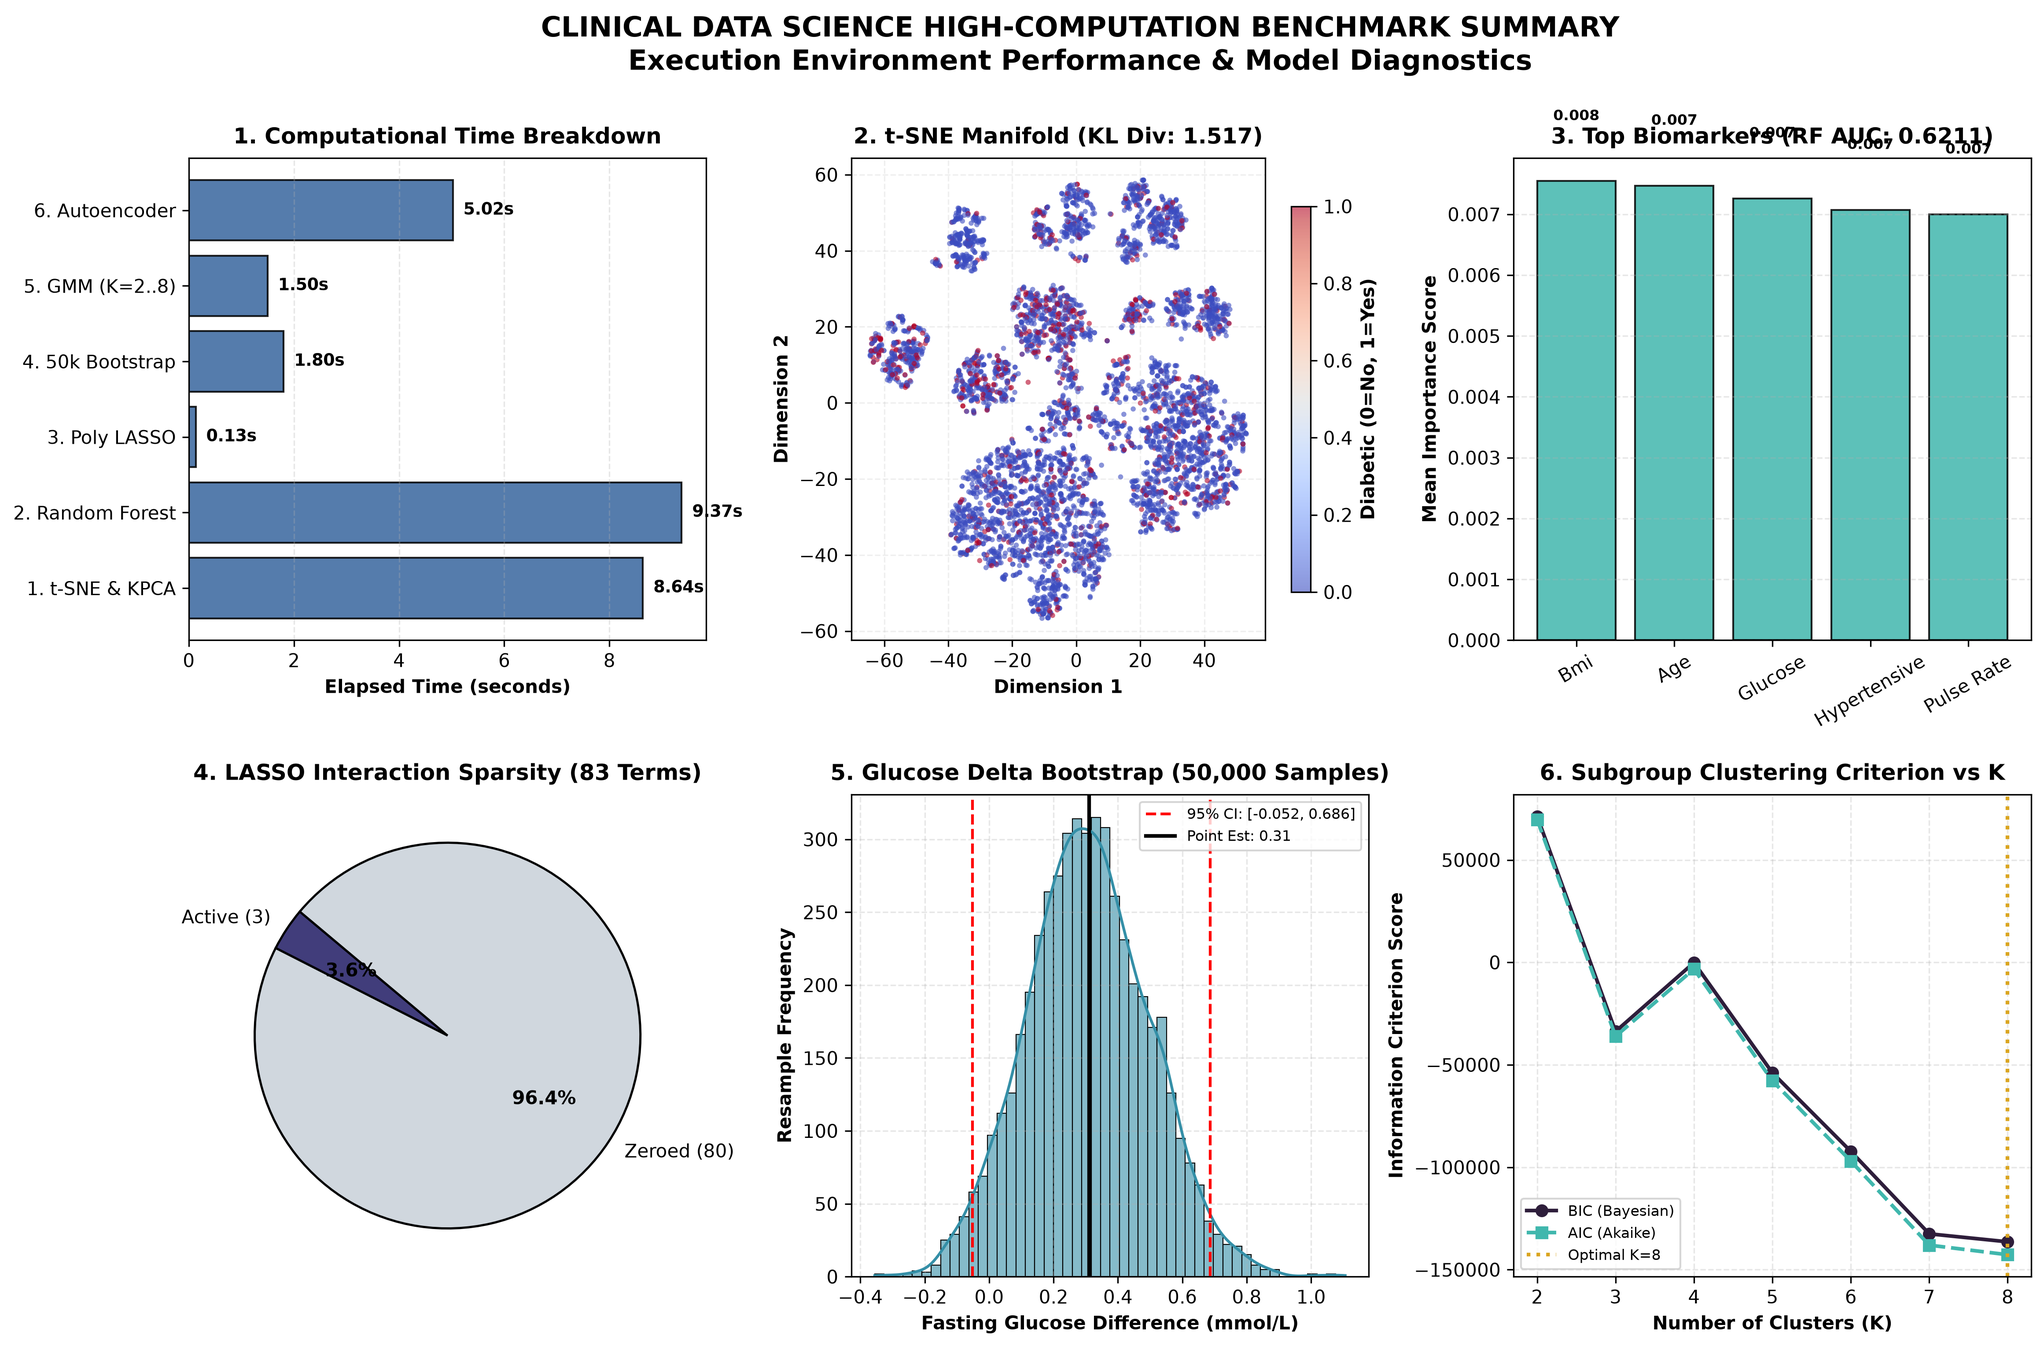
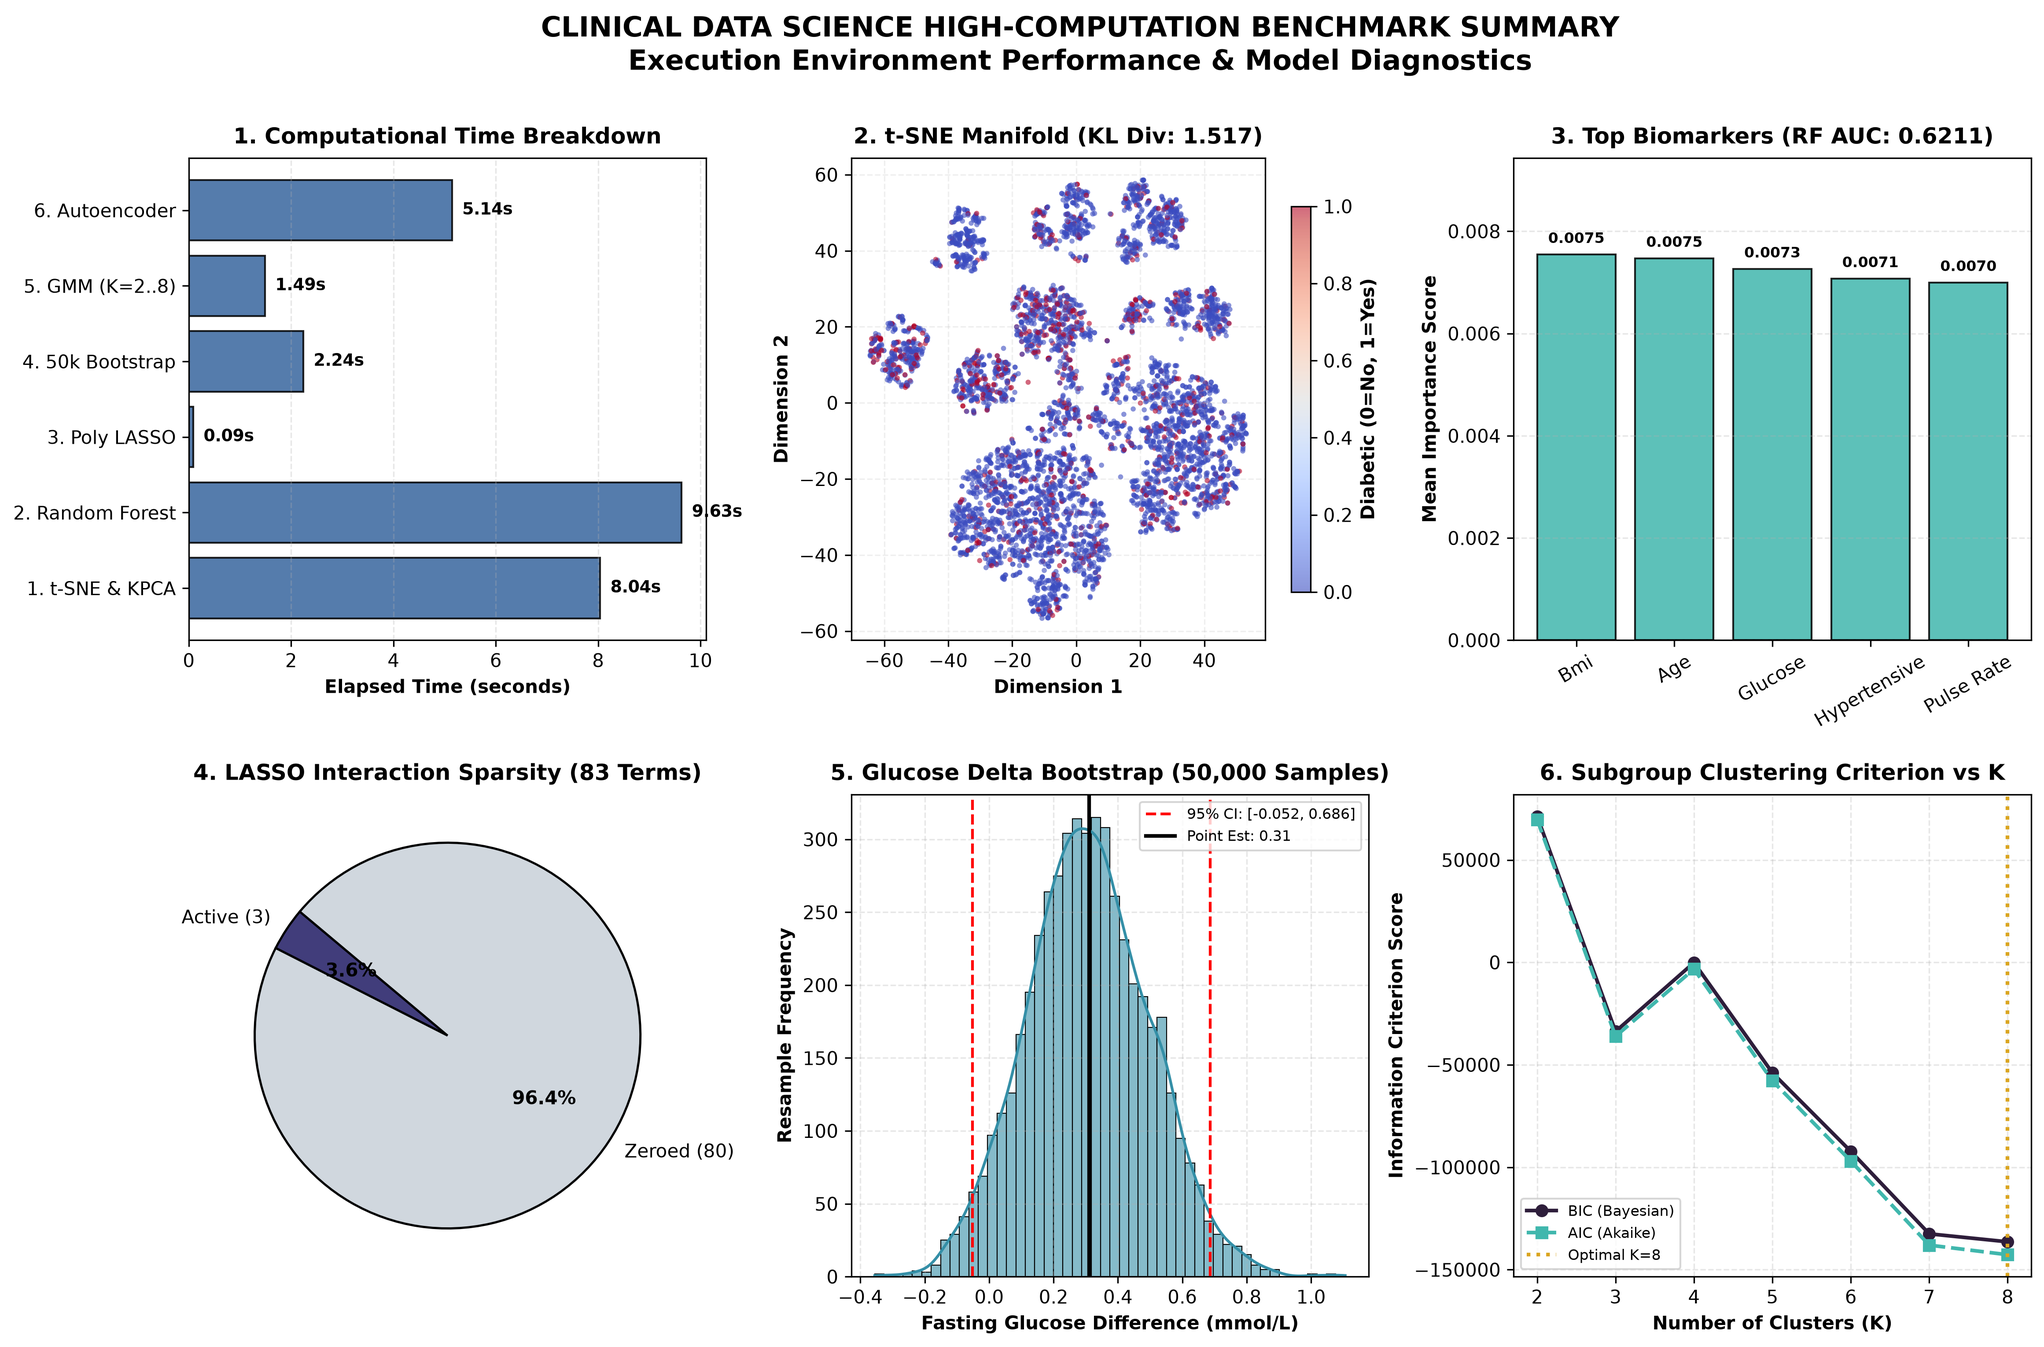
test data analysis

diff --git a/build/main.py b/build/main.py
@@ -121,27 +121,73 @@ def get_environment_info():
 
 
 def prepare_clinical_data():
-    """Load and preprocess patient dataset for high-compute modeling."""
+    """Load and preprocess patient dataset for high-compute modeling.
+    Robustly handles both Root object wrappers, nested JSON dictionaries, and flattened CSV keys.
+    """
     print("Loading patient cohort dataset...")
     dataset = create_dataset()
-    df = pd.DataFrame(dataset.records)
+
+    rows = []
+    for r in dataset:
+        try:
+            row = {
+                "gender": str(r.demographics.gender) if r.demographics.gender is not None else "Unknown",
+                "age": float(r.demographics.age) if r.demographics.age is not None else 0.0,
+                "height": float(r.anthropometry.height) if r.anthropometry.height is not None else 0.0,
+                "weight": float(r.anthropometry.weight) if r.anthropometry.weight is not None else 0.0,
+                "bmi": float(r.anthropometry.bmi) if r.anthropometry.bmi is not None else 0.0,
+                "systolic_bp": float(r.vitals.systolic_bp) if r.vitals.systolic_bp is not None else 0.0,
+                "diastolic_bp": float(r.vitals.diastolic_bp) if r.vitals.diastolic_bp is not None else 0.0,
+                "pulse_rate": float(r.vitals.pulse_rate) if r.vitals.pulse_rate is not None else 0.0,
+                "glucose": float(r.labs.glucose) if r.labs.glucose is not None else 0.0,
+                "hypertensive": str(r.history.hypertensive) if r.history.hypertensive is not None else "0",
+                "family_diabetes": str(r.history.family_diabetes) if r.history.family_diabetes is not None else "0",
+                "cardiovascular_disease": str(r.history.cardiovascular_disease) if r.history.cardiovascular_disease is not None else "0",
+                "family_hypertension": str(r.history.family_hypertension) if r.history.family_hypertension is not None else "0",
+                "stroke": str(r.history.stroke) if r.history.stroke is not None else "0",
+                "diabetic": str(r.outcome.diabetic) if r.outcome.diabetic is not None else "No",
+            }
+        except Exception:
+            d = r if isinstance(r, dict) else getattr(r, "_data", {})
+            row = {
+                "gender": str(d.get("demographics.gender") or (d.get("demographics") or {}).get("gender", "Unknown")),
+                "age": float(d.get("demographics.age") or (d.get("demographics") or {}).get("age", 0.0) or 0.0),
+                "height": float(d.get("anthropometry.height") or (d.get("anthropometry") or {}).get("height", 0.0) or 0.0),
+                "weight": float(d.get("anthropometry.weight") or (d.get("anthropometry") or {}).get("weight", 0.0) or 0.0),
+                "bmi": float(d.get("anthropometry.bmi") or (d.get("anthropometry") or {}).get("bmi", 0.0) or 0.0),
+                "systolic_bp": float(d.get("vitals.systolic_bp") or (d.get("vitals") or {}).get("systolic_bp", 0.0) or 0.0),
+                "diastolic_bp": float(d.get("vitals.diastolic_bp") or (d.get("vitals") or {}).get("diastolic_bp", 0.0) or 0.0),
+                "pulse_rate": float(d.get("vitals.pulse_rate") or (d.get("vitals") or {}).get("pulse_rate", 0.0) or 0.0),
+                "glucose": float(d.get("labs.glucose") or (d.get("labs") or {}).get("glucose", 0.0) or 0.0),
+                "hypertensive": str(d.get("history.hypertensive") or (d.get("history") or {}).get("hypertensive", "0")),
+                "family_diabetes": str(d.get("history.family_diabetes") or (d.get("history") or {}).get("family_diabetes", "0")),
+                "cardiovascular_disease": str(d.get("history.cardiovascular_disease") or (d.get("history") or {}).get("cardiovascular_disease", "0")),
+                "family_hypertension": str(d.get("history.family_hypertension") or (d.get("history") or {}).get("family_hypertension", "0")),
+                "stroke": str(d.get("history.stroke") or (d.get("history") or {}).get("stroke", "0")),
+                "diabetic": str(d.get("outcome.diabetic") or (d.get("outcome") or {}).get("diabetic", "No")),
+            }
+        rows.append(row)
+
+    df = pd.DataFrame(rows)
 
     numeric_cols = [
-        'demographics.age', 'anthropometry.height', 'anthropometry.weight',
-        'anthropometry.bmi', 'labs.glucose', 'vitals.systolic_bp',
-        'vitals.diastolic_bp', 'vitals.pulse_rate'
+        'age', 'height', 'weight', 'bmi', 'glucose',
+        'systolic_bp', 'diastolic_bp', 'pulse_rate'
     ]
     binary_cols = [
-        'history.hypertensive', 'history.family_diabetes',
-        'history.cardiovascular_disease', 'history.family_hypertension', 'history.stroke'
+        'hypertensive', 'family_diabetes',
+        'cardiovascular_disease', 'family_hypertension', 'stroke'
     ]
 
-    for col in numeric_cols + binary_cols:
-        df[col] = pd.to_numeric(df[col], errors='coerce').fillna(0)
+    for col in numeric_cols:
+        df[col] = pd.to_numeric(df[col], errors='coerce').fillna(0.0)
+
+    for col in binary_cols:
+        df[col] = pd.to_numeric(df[col], errors='coerce').fillna(0).astype(int)
 
     # Encode categorical features
-    df['gender_male'] = (df['demographics.gender'].astype(str).str.lower() == 'male').astype(int)
-    df['is_diabetic'] = (df['outcome.diabetic'].astype(str).str.lower() == 'yes').astype(int)
+    df['gender_male'] = (df['gender'].astype(str).str.lower() == 'male').astype(int)
+    df['is_diabetic'] = (df['diabetic'].astype(str).str.lower().isin(['yes', '1', 'true'])).astype(int)
 
     feature_cols = numeric_cols + binary_cols + ['gender_male']
     X = df[feature_cols].values
@@ -242,7 +288,7 @@ def benchmark_polynomial_lasso(X_scaled, df, numeric_cols):
     n_expanded_features = X_poly.shape[1]
 
     # Target: Fasting glucose
-    y_target = df['labs.glucose'].values
+    y_target = df['glucose'].values
 
     # Run 5-fold cross-validated LASSO across 100 alpha penalties
     lasso_cv = LassoCV(cv=5, max_iter=2500, random_state=42, n_jobs=2)
@@ -275,8 +321,8 @@ def benchmark_massive_bootstrap(df, y):
     n_batches = n_resamples // batch_size
 
     diab_mask = (y == 1)
-    g_diab = df.loc[diab_mask, 'labs.glucose'].values
-    g_nondiab = df.loc[~diab_mask, 'labs.glucose'].values
+    g_diab = df.loc[diab_mask, 'glucose'].values
+    g_nondiab = df.loc[~diab_mask, 'glucose'].values
     n_d = len(g_diab)
     n_nd = len(g_nondiab)
 

diff --git a/main.py b/main.py
@@ -121,27 +121,73 @@ def get_environment_info():
 
 
 def prepare_clinical_data():
-    """Load and preprocess patient dataset for high-compute modeling."""
+    """Load and preprocess patient dataset for high-compute modeling.
+    Robustly handles both Root object wrappers, nested JSON dictionaries, and flattened CSV keys.
+    """
     print("Loading patient cohort dataset...")
     dataset = create_dataset()
-    df = pd.DataFrame(dataset.records)
+
+    rows = []
+    for r in dataset:
+        try:
+            row = {
+                "gender": str(r.demographics.gender) if r.demographics.gender is not None else "Unknown",
+                "age": float(r.demographics.age) if r.demographics.age is not None else 0.0,
+                "height": float(r.anthropometry.height) if r.anthropometry.height is not None else 0.0,
+                "weight": float(r.anthropometry.weight) if r.anthropometry.weight is not None else 0.0,
+                "bmi": float(r.anthropometry.bmi) if r.anthropometry.bmi is not None else 0.0,
+                "systolic_bp": float(r.vitals.systolic_bp) if r.vitals.systolic_bp is not None else 0.0,
+                "diastolic_bp": float(r.vitals.diastolic_bp) if r.vitals.diastolic_bp is not None else 0.0,
+                "pulse_rate": float(r.vitals.pulse_rate) if r.vitals.pulse_rate is not None else 0.0,
+                "glucose": float(r.labs.glucose) if r.labs.glucose is not None else 0.0,
+                "hypertensive": str(r.history.hypertensive) if r.history.hypertensive is not None else "0",
+                "family_diabetes": str(r.history.family_diabetes) if r.history.family_diabetes is not None else "0",
+                "cardiovascular_disease": str(r.history.cardiovascular_disease) if r.history.cardiovascular_disease is not None else "0",
+                "family_hypertension": str(r.history.family_hypertension) if r.history.family_hypertension is not None else "0",
+                "stroke": str(r.history.stroke) if r.history.stroke is not None else "0",
+                "diabetic": str(r.outcome.diabetic) if r.outcome.diabetic is not None else "No",
+            }
+        except Exception:
+            d = r if isinstance(r, dict) else getattr(r, "_data", {})
+            row = {
+                "gender": str(d.get("demographics.gender") or (d.get("demographics") or {}).get("gender", "Unknown")),
+                "age": float(d.get("demographics.age") or (d.get("demographics") or {}).get("age", 0.0) or 0.0),
+                "height": float(d.get("anthropometry.height") or (d.get("anthropometry") or {}).get("height", 0.0) or 0.0),
+                "weight": float(d.get("anthropometry.weight") or (d.get("anthropometry") or {}).get("weight", 0.0) or 0.0),
+                "bmi": float(d.get("anthropometry.bmi") or (d.get("anthropometry") or {}).get("bmi", 0.0) or 0.0),
+                "systolic_bp": float(d.get("vitals.systolic_bp") or (d.get("vitals") or {}).get("systolic_bp", 0.0) or 0.0),
+                "diastolic_bp": float(d.get("vitals.diastolic_bp") or (d.get("vitals") or {}).get("diastolic_bp", 0.0) or 0.0),
+                "pulse_rate": float(d.get("vitals.pulse_rate") or (d.get("vitals") or {}).get("pulse_rate", 0.0) or 0.0),
+                "glucose": float(d.get("labs.glucose") or (d.get("labs") or {}).get("glucose", 0.0) or 0.0),
+                "hypertensive": str(d.get("history.hypertensive") or (d.get("history") or {}).get("hypertensive", "0")),
+                "family_diabetes": str(d.get("history.family_diabetes") or (d.get("history") or {}).get("family_diabetes", "0")),
+                "cardiovascular_disease": str(d.get("history.cardiovascular_disease") or (d.get("history") or {}).get("cardiovascular_disease", "0")),
+                "family_hypertension": str(d.get("history.family_hypertension") or (d.get("history") or {}).get("family_hypertension", "0")),
+                "stroke": str(d.get("history.stroke") or (d.get("history") or {}).get("stroke", "0")),
+                "diabetic": str(d.get("outcome.diabetic") or (d.get("outcome") or {}).get("diabetic", "No")),
+            }
+        rows.append(row)
+
+    df = pd.DataFrame(rows)
 
     numeric_cols = [
-        'demographics.age', 'anthropometry.height', 'anthropometry.weight',
-        'anthropometry.bmi', 'labs.glucose', 'vitals.systolic_bp',
-        'vitals.diastolic_bp', 'vitals.pulse_rate'
+        'age', 'height', 'weight', 'bmi', 'glucose',
+        'systolic_bp', 'diastolic_bp', 'pulse_rate'
     ]
     binary_cols = [
-        'history.hypertensive', 'history.family_diabetes',
-        'history.cardiovascular_disease', 'history.family_hypertension', 'history.stroke'
+        'hypertensive', 'family_diabetes',
+        'cardiovascular_disease', 'family_hypertension', 'stroke'
     ]
 
-    for col in numeric_cols + binary_cols:
-        df[col] = pd.to_numeric(df[col], errors='coerce').fillna(0)
+    for col in numeric_cols:
+        df[col] = pd.to_numeric(df[col], errors='coerce').fillna(0.0)
+
+    for col in binary_cols:
+        df[col] = pd.to_numeric(df[col], errors='coerce').fillna(0).astype(int)
 
     # Encode categorical features
-    df['gender_male'] = (df['demographics.gender'].astype(str).str.lower() == 'male').astype(int)
-    df['is_diabetic'] = (df['outcome.diabetic'].astype(str).str.lower() == 'yes').astype(int)
+    df['gender_male'] = (df['gender'].astype(str).str.lower() == 'male').astype(int)
+    df['is_diabetic'] = (df['diabetic'].astype(str).str.lower().isin(['yes', '1', 'true'])).astype(int)
 
     feature_cols = numeric_cols + binary_cols + ['gender_male']
     X = df[feature_cols].values
@@ -242,7 +288,7 @@ def benchmark_polynomial_lasso(X_scaled, df, numeric_cols):
     n_expanded_features = X_poly.shape[1]
 
     # Target: Fasting glucose
-    y_target = df['labs.glucose'].values
+    y_target = df['glucose'].values
 
     # Run 5-fold cross-validated LASSO across 100 alpha penalties
     lasso_cv = LassoCV(cv=5, max_iter=2500, random_state=42, n_jobs=2)
@@ -275,8 +321,8 @@ def benchmark_massive_bootstrap(df, y):
     n_batches = n_resamples // batch_size
 
     diab_mask = (y == 1)
-    g_diab = df.loc[diab_mask, 'labs.glucose'].values
-    g_nondiab = df.loc[~diab_mask, 'labs.glucose'].values
+    g_diab = df.loc[diab_mask, 'glucose'].values
+    g_nondiab = df.loc[~diab_mask, 'glucose'].values
     n_d = len(g_diab)
     n_nd = len(g_nondiab)
 

diff --git a/scratch/test_data_extraction.py b/scratch/test_data_extraction.py
@@ -1,0 +1,74 @@
+import os
+import sys
+import pandas as pd
+
+sys.path.insert(0, os.path.dirname(os.path.dirname(os.path.abspath(__file__))))
+from generated.models import create_dataset, Root
+
+def test():
+    dataset = create_dataset()
+    print(f"Dataset length: {len(dataset)}")
+    
+    rows = []
+    for r in dataset:
+        try:
+            row = {
+                "gender": str(r.demographics.gender) if r.demographics.gender is not None else "Unknown",
+                "age": float(r.demographics.age) if r.demographics.age is not None else 0.0,
+                "height": float(r.anthropometry.height) if r.anthropometry.height is not None else 0.0,
+                "weight": float(r.anthropometry.weight) if r.anthropometry.weight is not None else 0.0,
+                "bmi": float(r.anthropometry.bmi) if r.anthropometry.bmi is not None else 0.0,
+                "systolic_bp": float(r.vitals.systolic_bp) if r.vitals.systolic_bp is not None else 0.0,
+                "diastolic_bp": float(r.vitals.diastolic_bp) if r.vitals.diastolic_bp is not None else 0.0,
+                "pulse_rate": float(r.vitals.pulse_rate) if r.vitals.pulse_rate is not None else 0.0,
+                "glucose": float(r.labs.glucose) if r.labs.glucose is not None else 0.0,
+                "hypertensive": str(r.history.hypertensive) if r.history.hypertensive is not None else "0",
+                "family_diabetes": str(r.history.family_diabetes) if r.history.family_diabetes is not None else "0",
+                "cardiovascular_disease": str(r.history.cardiovascular_disease) if r.history.cardiovascular_disease is not None else "0",
+                "family_hypertension": str(r.history.family_hypertension) if r.history.family_hypertension is not None else "0",
+                "stroke": str(r.history.stroke) if r.history.stroke is not None else "0",
+                "diabetic": str(r.outcome.diabetic) if r.outcome.diabetic is not None else "No",
+            }
+        except Exception:
+            d = r if isinstance(r, dict) else getattr(r, "_data", {})
+            row = {
+                "gender": str(d.get("demographics.gender") or (d.get("demographics") or {}).get("gender", "Unknown")),
+                "age": float(d.get("demographics.age") or (d.get("demographics") or {}).get("age", 0.0) or 0.0),
+                "height": float(d.get("anthropometry.height") or (d.get("anthropometry") or {}).get("height", 0.0) or 0.0),
+                "weight": float(d.get("anthropometry.weight") or (d.get("anthropometry") or {}).get("weight", 0.0) or 0.0),
+                "bmi": float(d.get("anthropometry.bmi") or (d.get("anthropometry") or {}).get("bmi", 0.0) or 0.0),
+                "systolic_bp": float(d.get("vitals.systolic_bp") or (d.get("vitals") or {}).get("systolic_bp", 0.0) or 0.0),
+                "diastolic_bp": float(d.get("vitals.diastolic_bp") or (d.get("vitals") or {}).get("diastolic_bp", 0.0) or 0.0),
+                "pulse_rate": float(d.get("vitals.pulse_rate") or (d.get("vitals") or {}).get("pulse_rate", 0.0) or 0.0),
+                "glucose": float(d.get("labs.glucose") or (d.get("labs") or {}).get("glucose", 0.0) or 0.0),
+                "hypertensive": str(d.get("history.hypertensive") or (d.get("history") or {}).get("hypertensive", "0")),
+                "family_diabetes": str(d.get("history.family_diabetes") or (d.get("history") or {}).get("family_diabetes", "0")),
+                "cardiovascular_disease": str(d.get("history.cardiovascular_disease") or (d.get("history") or {}).get("cardiovascular_disease", "0")),
+                "family_hypertension": str(d.get("history.family_hypertension") or (d.get("history") or {}).get("family_hypertension", "0")),
+                "stroke": str(d.get("history.stroke") or (d.get("history") or {}).get("stroke", "0")),
+                "diabetic": str(d.get("outcome.diabetic") or (d.get("outcome") or {}).get("diabetic", "No")),
+            }
+        rows.append(row)
+        
+    df = pd.DataFrame(rows)
+    print("DataFrame shape:", df.shape)
+    print("Columns:", list(df.columns))
+    print("Sample:\n", df.head(3))
+    
+    # Also test nested dict structure to simulate remote enclave!
+    nested_record = {
+        "demographics": {"gender": "Female", "age": 52},
+        "vitals": {"systolic_bp": 130, "diastolic_bp": 85, "pulse_rate": 72},
+        "anthropometry": {"height": 1.65, "weight": 68, "bmi": 24.97},
+        "labs": {"glucose": 5.4},
+        "history": {"hypertensive": "0", "family_diabetes": "1", "cardiovascular_disease": "0", "family_hypertension": "1", "stroke": "0"},
+        "outcome": {"diabetic": "No"}
+    }
+    mock_root = Root(nested_record)
+    print("\nTesting nested Root:")
+    print("Root.vitals.systolic_bp:", mock_root.vitals.systolic_bp)
+    print("Root.demographics.age:", mock_root.demographics.age)
+    print("Root.labs.glucose:", mock_root.labs.glucose)
+
+if __name__ == "__main__":
+    test()
